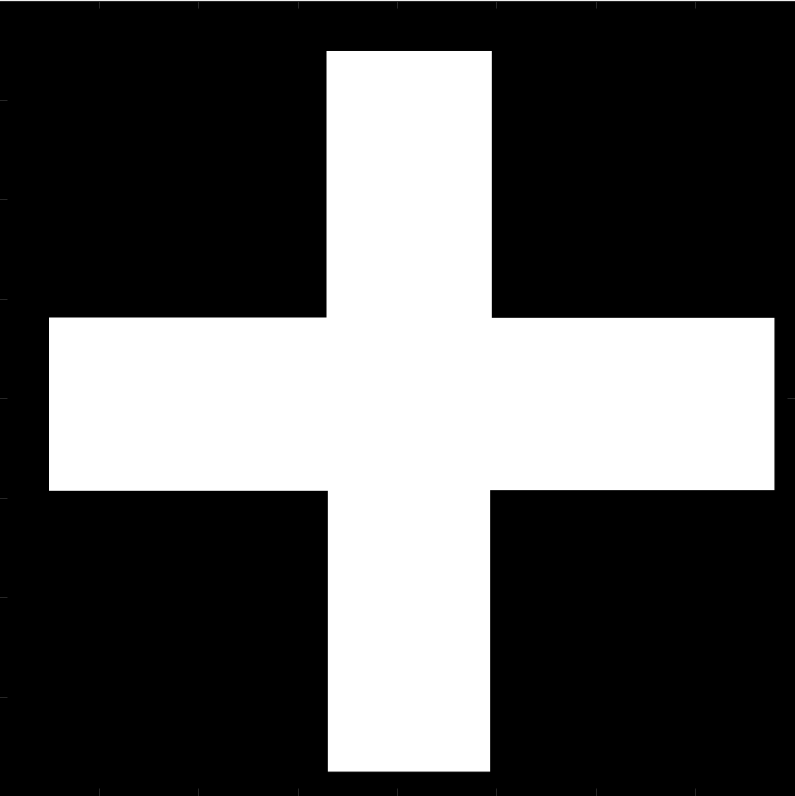
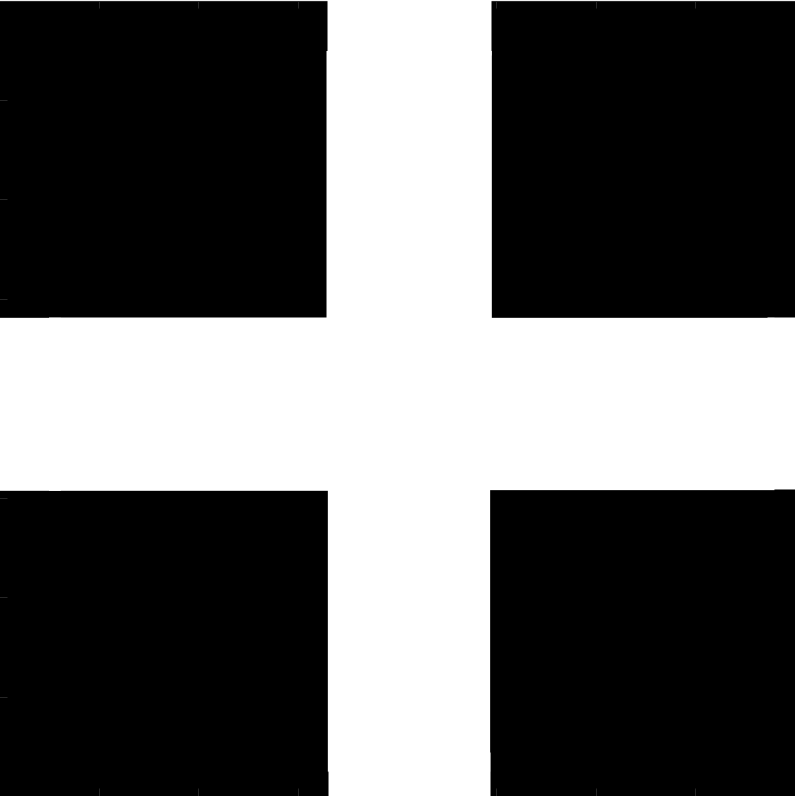
New cross map png Choose area for the montecarlo simulations

diff --git a/MATLAB_path_generation/synthetic_path_generators/PRM/clothoids_PRM_montecarlo_map.m b/MATLAB_path_generation/synthetic_path_generators/PRM/clothoids_PRM_montecarlo_map.m
@@ -26,22 +26,22 @@ for i = 1:num_traj
     end
     
     prm = mobileRobotPRM(map, 100);
+
+    occ = getOccupancy(map);
+    mask = occ*0;
+    x = max(ceil(pos.x1)-1,1);
+    y = max(ceil(pos.y1)-1,1);
+    x = [x, min(ceil(pos.x1)+1,20)];
+    y = [y, min(ceil(pos.y1)+1,20)];
+    mask(y(1):y(2),x(1):x(2)) = ones(3,3);
+    coll = mask & occ;
     
-    get_pos = true;
-    k = 0;
-    while get_pos
-        k = k+1;
-        P1 = [pos.x1 + rand()*2, pos.y1 + rand()*9]./res;
-        a1 = rand()*pi/2;
-        P2 = [pos.x2 + rand()*5, pos.y2 + rand()*7]./res;
-        a2 = -rand()*pi/2;
-        if ~getOccupancy(map, P1) && ~getOccupancy(map, P2)
-            get_pos = false;
-        end
-        if k > 5000
-            error('Reached iteration limit for getting positions.');
-        end
-    end
+
+    
+    P1 = [pos.x1 + rand()*2, pos.y1 + rand()*9]./res;
+    a1 = rand()*pi/2;
+    P2 = [pos.x2 + rand()*5, pos.y2 + rand()*7]./res;
+    a2 = -rand()*pi/2;
     
     path = findpath(prm,P1,P2);
         
